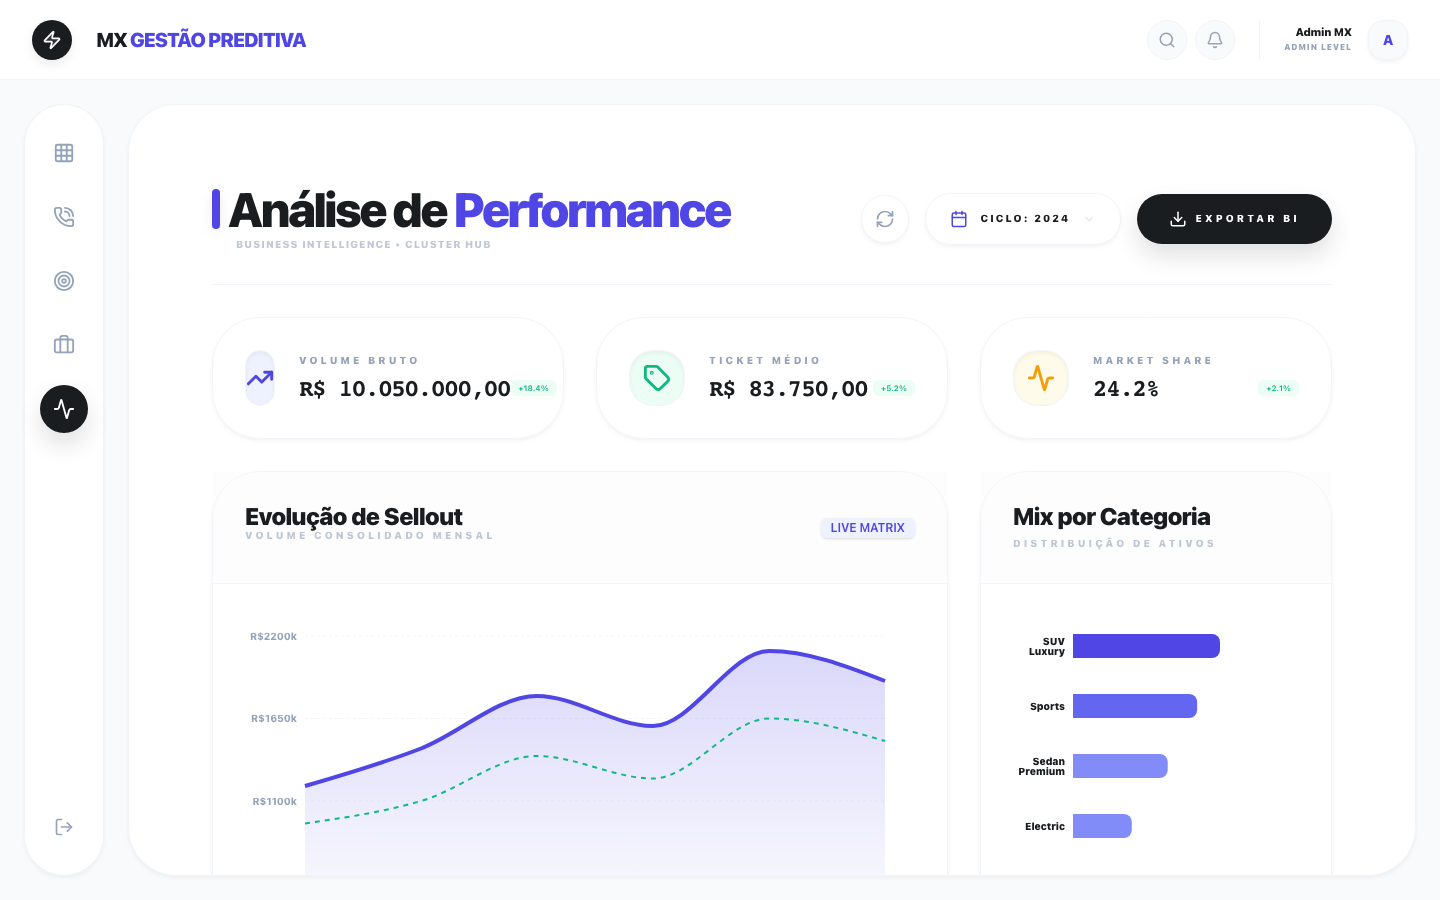
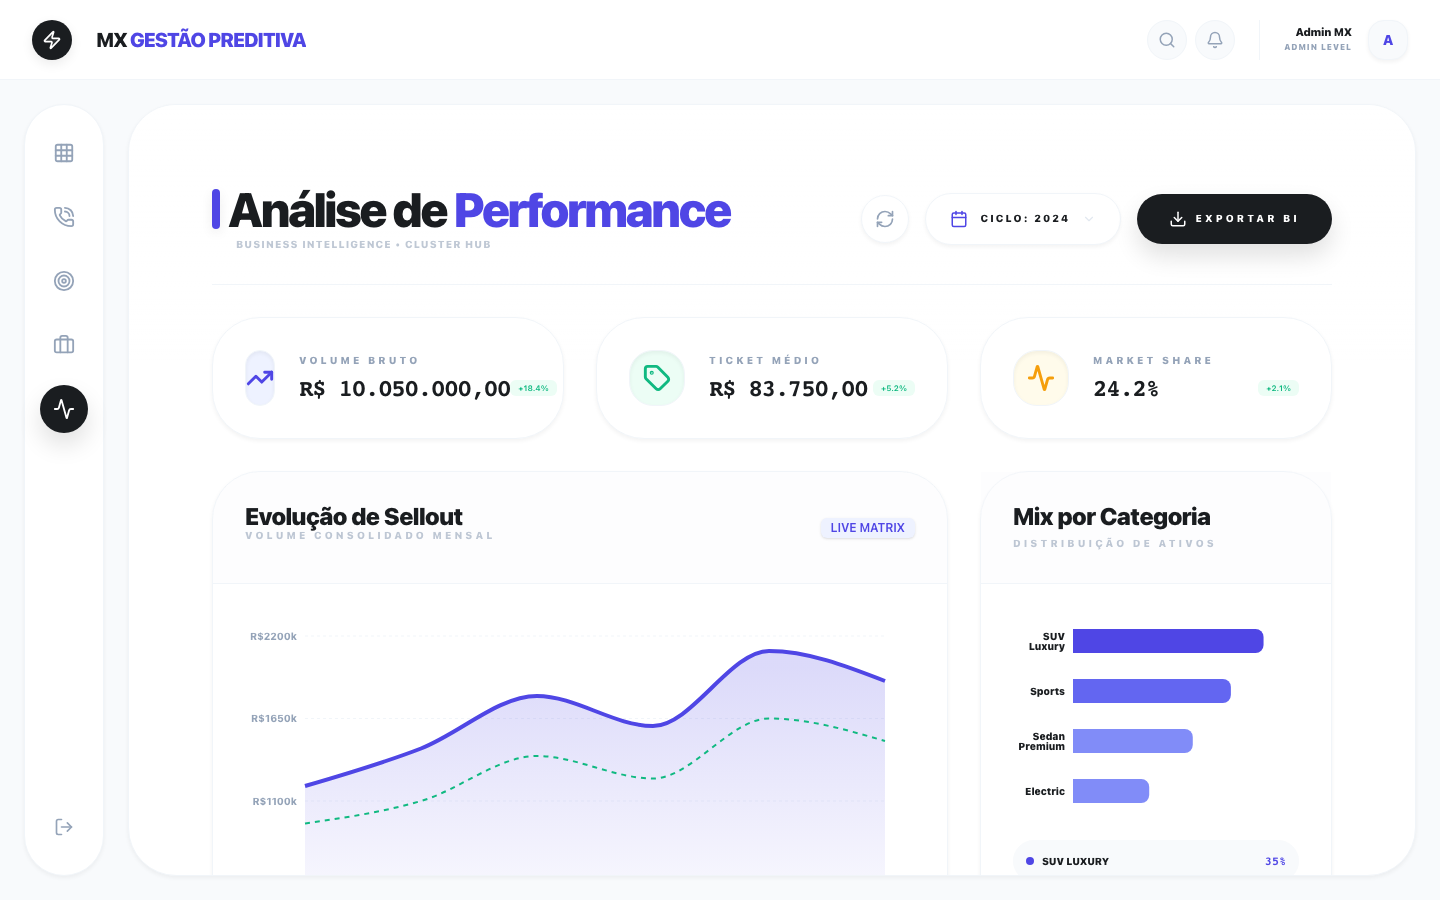
ui: adjusted bar chart height in SalesPerformance for better legend visibility

Changed region(s): [[0.7188, 0.6844, 0.875, 0.9644]]

diff --git a/src/pages/SalesPerformance.tsx b/src/pages/SalesPerformance.tsx
@@ -87,7 +87,7 @@ export default function SalesPerformance() {
                 </div></Card></div>
 
                 <div className="lg:col-span-4"><Card className="h-full flex flex-col"><CardHeader><CardTitle>Mix por Categoria</CardTitle><CardDescription>Distribuição de Ativos</CardDescription></CardHeader><div className="p-mx-lg flex-1 flex flex-col items-center">
-                    <div className="h-[200px] w-full mb-mx-md">
+                    <div className="h-[160px] w-full mb-mx-md">
                         <ResponsiveContainer width="100%" height="100%">
                             <BarChart data={categoryStats} layout="vertical" margin={{ left: -20, right: 30 }}>
                                 <XAxis type="number" hide />
